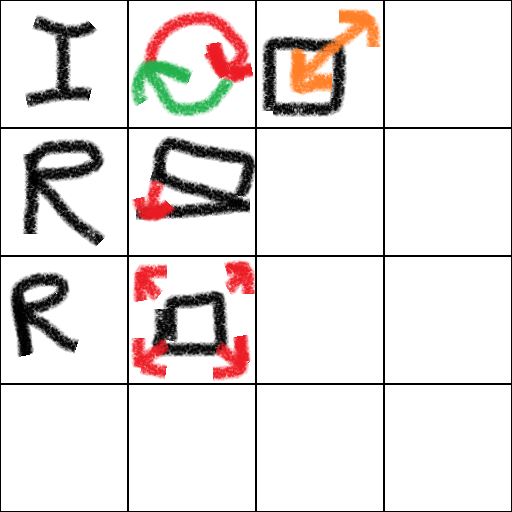
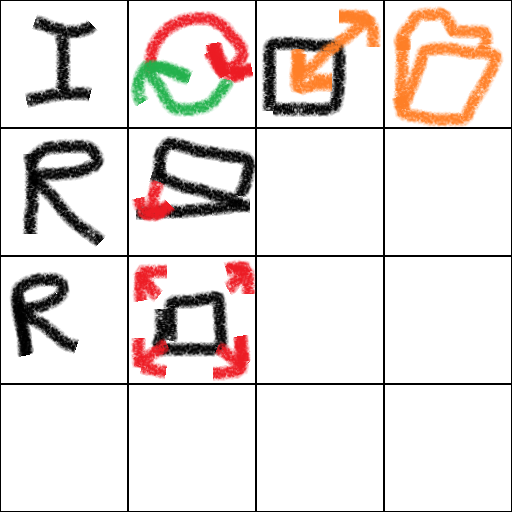
Add GL load file button, and improve the GLButton code a bit.

Changed region(s): [[0.75, 0.0, 1.0, 0.25]]

diff --git a/Cura/gui/util/openglGui.py b/Cura/gui/util/openglGui.py
@@ -19,6 +19,7 @@ class glGuiPanel(glcanvas.GLCanvas):
 		self._context = glcanvas.GLContext(self)
 		self._glGuiControlList = []
 		self._buttonSize = 64
+		self._allowDrag = False
 
 		wx.EVT_PAINT(self, self._OnGuiPaint)
 		wx.EVT_SIZE(self, self._OnSize)
@@ -27,10 +28,17 @@ class glGuiPanel(glcanvas.GLCanvas):
 		wx.EVT_MOTION(self, self._OnGuiMouseMotion)
 
 	def _OnGuiMouseEvents(self,e):
-		if e.ButtonDown() and e.LeftIsDown():
-			for ctrl in self._glGuiControlList:
-				if ctrl.OnMouseDown(e.GetX(), e.GetY()):
-					return
+		if e.ButtonDown():
+			if e.LeftIsDown():
+				for ctrl in self._glGuiControlList:
+					if ctrl.OnMouseDown(e.GetX(), e.GetY()):
+						return
+			self._allowDrag = True
+			print 1
+		if e.ButtonUp():
+			if not e.LeftIsDown() and not e.RightIsDown():
+				self._allowDrag = False
+				print 0
 
 	def _OnGuiMouseMotion(self,e):
 		self.Refresh()
@@ -100,6 +108,17 @@ class glButton(object):
 	def getSelected(self):
 		return self._selected
 
+	def _getSize(self):
+		return self._parent._buttonSize
+
+	def _getPixelPos(self):
+		bs = self._getSize()
+		x = self._x * bs * 1.3 + bs * 0.8
+		y = self._y * bs * 1.3 + bs * 0.8
+		if self._x < 0:
+			x = self._parent.GetSize().GetWidth() + x - bs * 0.2
+		return x, y
+
 	def draw(self):
 		global glButtonsTexture
 		if self._hidden:
@@ -110,9 +129,10 @@ class glButton(object):
 		cx = (self._imageID % 4) / 4
 		cy = int(self._imageID / 4) / 4
 		bs = self._parent._buttonSize
+		pos = self._getPixelPos()
 
 		glPushMatrix()
-		glTranslatef(self._x * bs * 1.3 + bs * 0.8, self._y * bs * 1.3 + bs * 0.8, 0)
+		glTranslatef(pos[0], pos[1], 0)
 		glBindTexture(GL_TEXTURE_2D, glButtonsTexture)
 		glEnable(GL_TEXTURE_2D)
 		scale = 0.8
@@ -142,8 +162,9 @@ class glButton(object):
 	def _checkHit(self, x, y):
 		if self._hidden:
 			return False
-		bs = self._parent._buttonSize
-		return -bs * 0.5 <= x - (self._x * bs * 1.3 + bs * 0.8) <= bs * 0.5 and -bs * 0.5 <= y - (self._y * bs * 1.3 + bs * 0.8) <= bs * 0.5
+		bs = self._getSize()
+		pos = self._getPixelPos()
+		return -bs * 0.5 <= x - pos[0] <= bs * 0.5 and -bs * 0.5 <= y - pos[1] <= bs * 0.5
 
 	def OnMouseMotion(self, x, y):
 		if self._checkHit(x, y):
@@ -155,3 +176,5 @@ class glButton(object):
 	def OnMouseDown(self, x, y):
 		if self._checkHit(x, y):
 			self._callback()
+			return True
+		return False

diff --git a/Cura/gui/preview3d.py b/Cura/gui/preview3d.py
@@ -111,10 +111,12 @@ class previewPanel(wx.Panel):
 		self.scaleToolButton  = openglGui.glButton(self.glCanvas, 2, 'Scale', 0,2, self.OnScaleSelect)
 
 		self.resetRotationButton = openglGui.glButton(self.glCanvas, 4, 'Reset rotation', 1,0, self.OnRotateReset)
-		self.layFlatButton = openglGui.glButton(self.glCanvas, 5, 'Lay flat', 2,0, self.OnLayFlat)
+		self.layFlatButton       = openglGui.glButton(self.glCanvas, 5, 'Lay flat', 2,0, self.OnLayFlat)
 
-		self.resetScaleButton = openglGui.glButton(self.glCanvas, 8, 'Scale reset', 1,0, self.OnScaleReset)
-		self.scaleMaxButton = openglGui.glButton(self.glCanvas, 9, 'Scale to machine size', 2,0, self.OnScaleMax)
+		self.resetScaleButton    = openglGui.glButton(self.glCanvas, 8, 'Scale reset', 1,0, self.OnScaleReset)
+		self.scaleMaxButton      = openglGui.glButton(self.glCanvas, 9, 'Scale to machine size', 2,0, self.OnScaleMax)
+
+		self.openFileButton      = openglGui.glButton(self.glCanvas, 3, 'Load file', -1,0, lambda : self.GetParent().GetParent().GetParent()._showModelLoadDialog(1))
 
 		self.infoToolButton.setSelected(True)
 		self.returnToModelViewAndUpdateModel()
